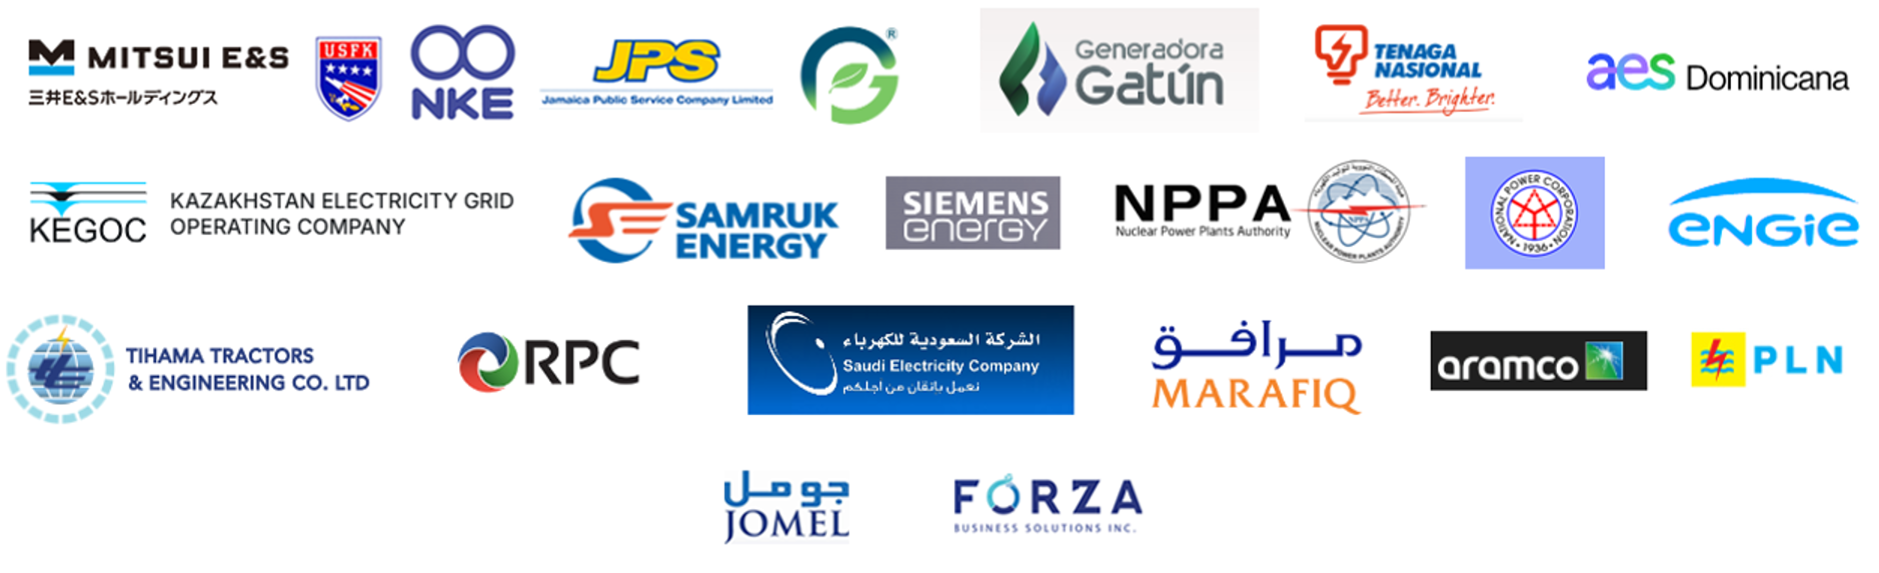
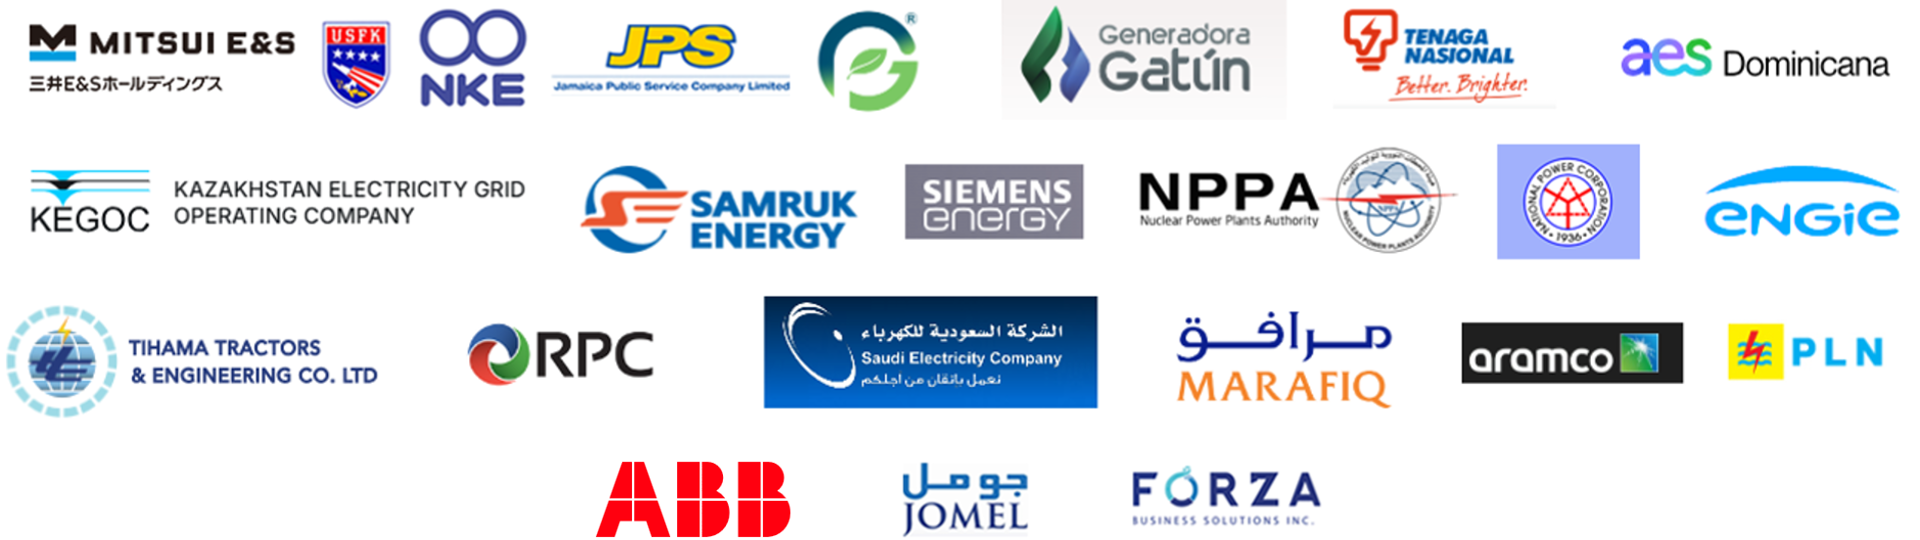
.

diff --git a/pages/company/about.html b/pages/company/about.html
@@ -766,6 +766,10 @@
                                     <div class="supplier-grid">
                                         
                                         <div class="supplier-item">
+                                            <div class="supplier-name">SIEMENS ENERGY</div>
+                                            <img src="Siemens_Energy_logo.png" alt="SIEMENS ENERGY" class="supplier-logo">
+                                        </div>
+                                        <div class="supplier-item">
                                             <div class="supplier-name">GE VERNOVA</div>
                                             <img src="GE VERNOVA.png" alt="GE VERNOVA" class="supplier-logo">
                                         </div>
@@ -778,10 +782,6 @@
                                         <div class="supplier-item">
                                             <div class="supplier-name">SCHNEIDER</div>
                                             <img src="schneider.png" alt="SCHNEIDER" class="supplier-logo">
-                                        </div>
-                                        <div class="supplier-item">
-                                            <div class="supplier-name">ABB</div>
-                                            <img src="abb-logo-33px.svg" alt="ABB" class="supplier-logo">
                                         </div>
                                         <div class="supplier-item">
                                             <div class="supplier-name">Arteche</div>
